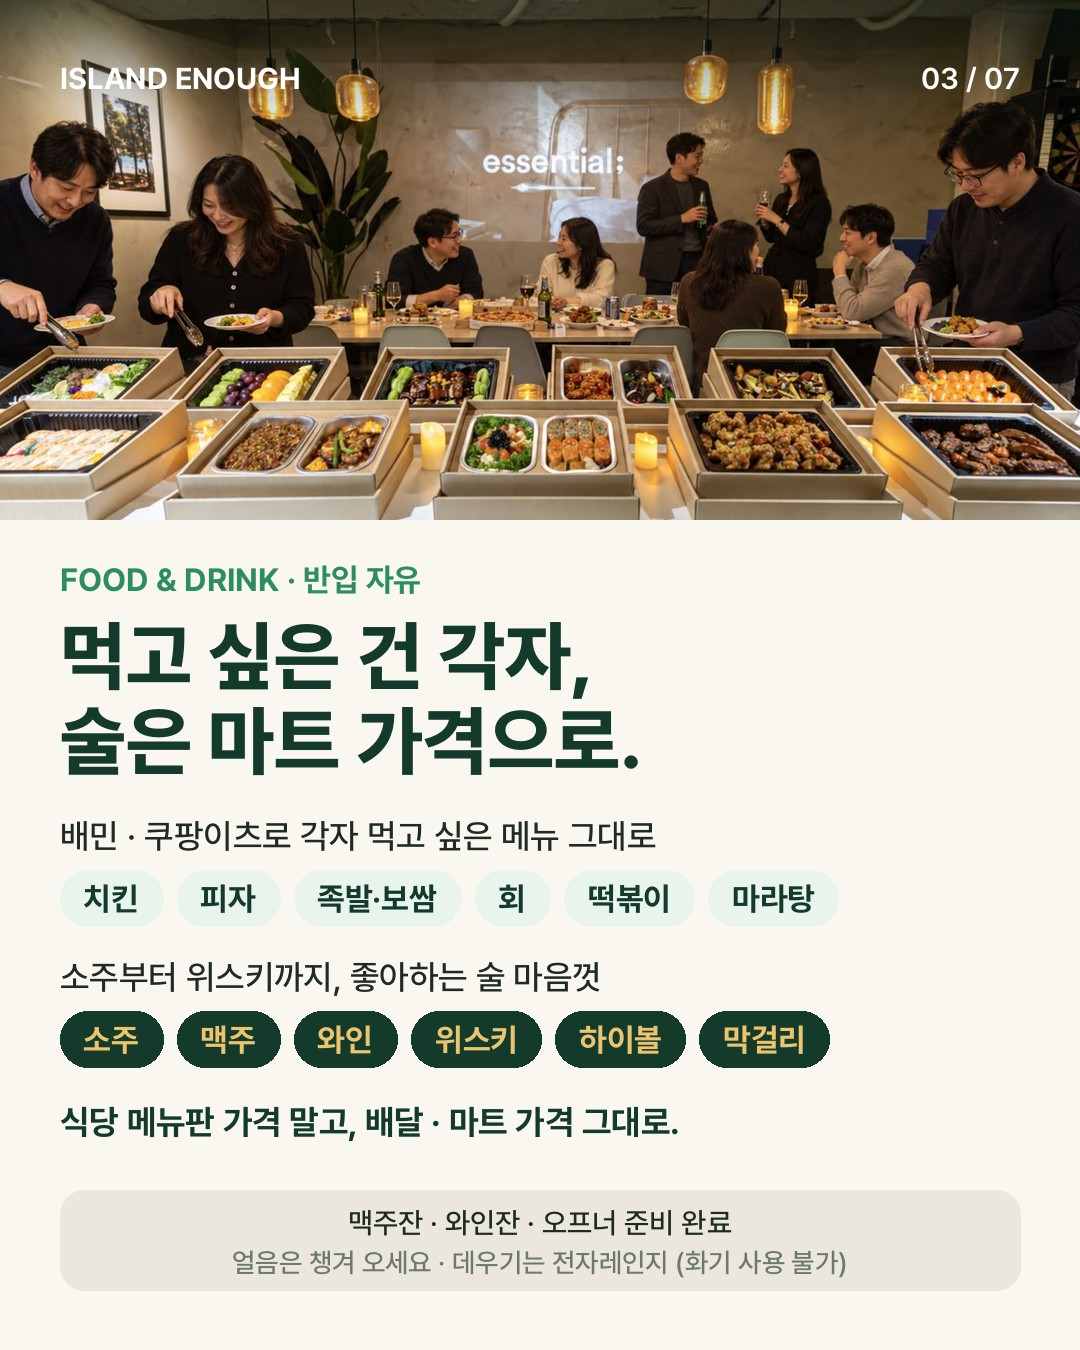
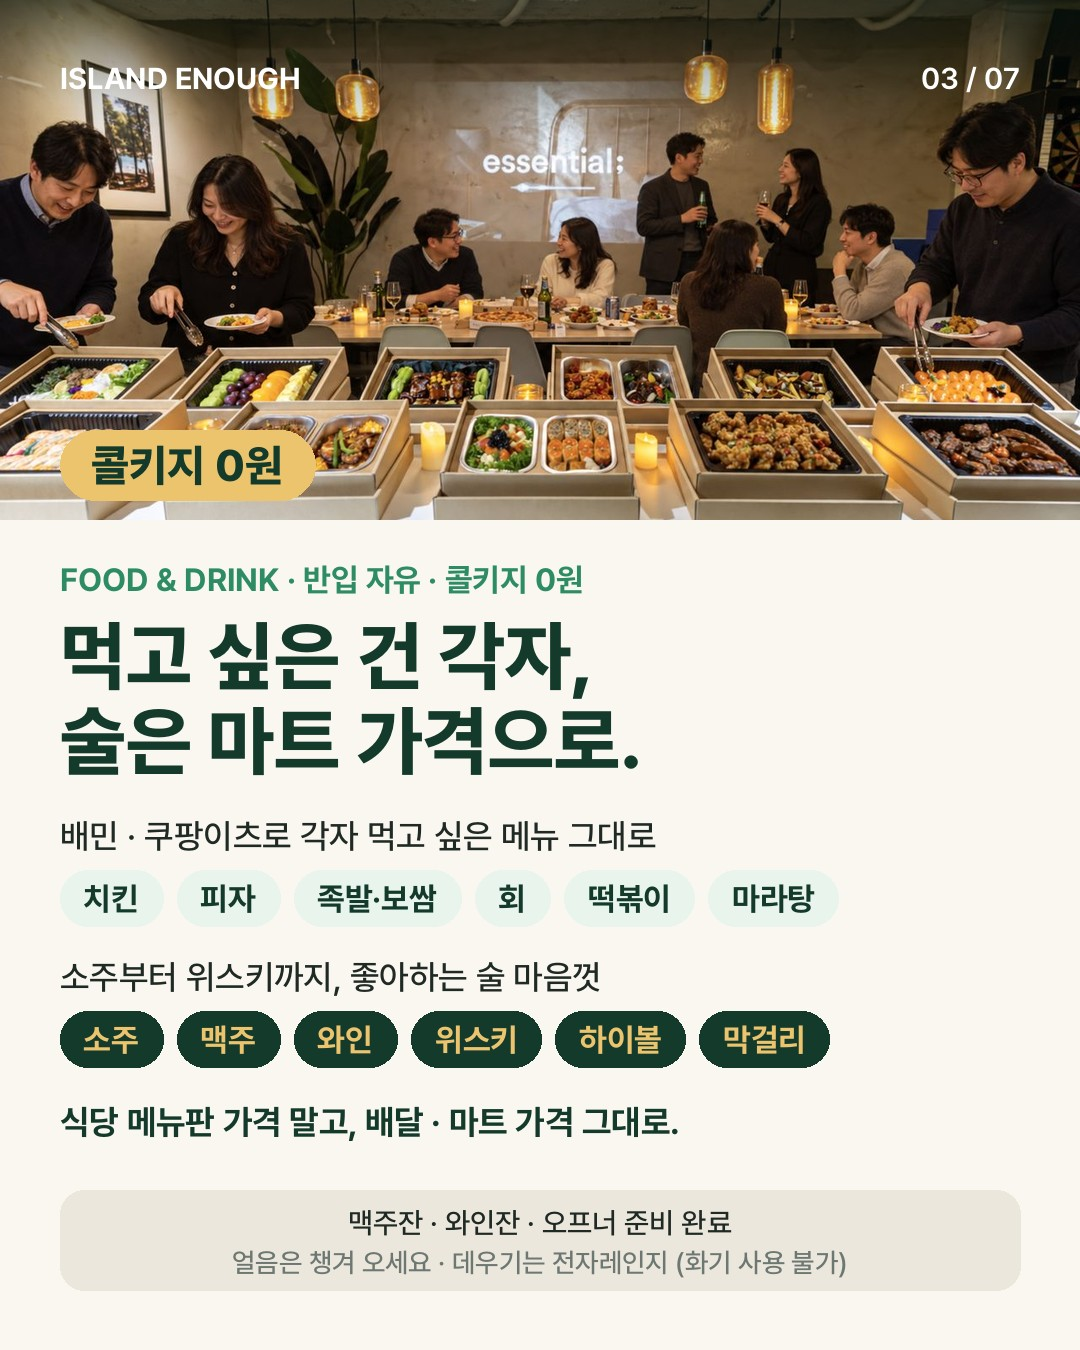
콜키지 0원 강조 (대표 캐러셀 음식·술 장, 게시글, Q&A)
Claude-Session: https://claude.ai/code/session_014iq2M5aXmiv6KNYCo4Y55r

Changed region(s): [[0.0611, 0.3111, 0.3056, 0.3733], [0.3972, 0.4044, 0.55, 0.4356]]

diff --git a/tools/main_ad.py b/tools/main_ad.py
@@ -80,7 +80,10 @@ def food(i, n, path):
     im.paste(crop(photo(path), W, 520), (0, 0))
     im = shade(im, 0, 170, 160, reverse=True)
     d = ImageDraw.Draw(im); header(d, i, n)
-    d.text((60, 560), 'FOOD & DRINK · 반입 자유', font=font('Bold', 32), fill=(46, 140, 100))
+    bf = font('ExtraBold', 44); bw = int(d.textlength('콜키지 0원', font=bf)) + 64
+    d.rounded_rectangle([60, 430, 60 + bw, 500], radius=35, fill=GOLD)
+    d.text((60 + bw // 2, 465), '콜키지 0원', font=bf, fill=GREEN, anchor='mm')
+    d.text((60, 560), 'FOOD & DRINK · 반입 자유 · 콜키지 0원', font=font('Bold', 32), fill=(46, 140, 100))
     t = '먹고 싶은 건 각자,\n술은 마트 가격으로.'
     d.text((60, 610), t, font=fit(d, t, 'ExtraBold', 76, W - 120), fill=GREEN, spacing=12)
     d.text((60, 815), '배민 · 쿠팡이츠로 각자 먹고 싶은 메뉴 그대로', font=font('Medium', 34), fill=INK)
@@ -214,7 +217,7 @@ def build(ctx, which=0):
                  '강남(역삼역) · 역삼(선릉역) · 양재 · 도산공원 · 수유', '',
                  f'✔ 공간 전체를 우리 일행만 단독 대관 (최대 {maxp}명)',
                  '✔ 음식 · 술 반입 자유: 배민 · 쿠팡이츠로 각자 먹고 싶은 메뉴 주문',
-                 '✔ 소주 · 맥주 · 와인 · 위스키까지 마트 가격 그대로 (식당 술값 걱정 끝)',
+                 '✔ 콜키지 0원! 소주 · 맥주 · 와인 · 위스키까지 마트 가격 그대로',
                  '✔ 빔프로젝터 · 무선 마이크 무료',
                  f"✔ {PEOPLE}명이 모이면 {price_box['head']} ({m}월 월~목·일요일 밤 5시간)", '',
                  '올해 연말 모임, 날짜만 정하면 됩니다.',

diff --git a/tools/content.py b/tools/content.py
@@ -306,7 +306,7 @@ def fmt_avail(ctx):
 def fmt_faq(ctx):
     cfg, take, lead = ctx['cfg'], ctx['take'], ctx['lead']
     qa = [
-        [('술 가져가도 돼요?', '돼요. 음식 · 주류 모두 자유롭게 반입하세요.'),
+        [('술 가져가도 돼요?', '돼요. 콜키지도 0원, 음식 · 주류 모두 자유롭게 반입하세요.'),
          ('배달 시켜도 돼요?', '돼요. 데울 땐 전자레인지를 쓰시면 돼요. (가스버너 등 화기는 안 돼요)')],
         [('노래 불러도 돼요?', '돼요. 유튜브 MR + 무선 마이크 2개, 추가 요금 없어요.'),
          ('케이크 초 켜도 돼요?', '돼요. 폭죽 · 꽃가루(컨페티)만 안 돼요.')],
